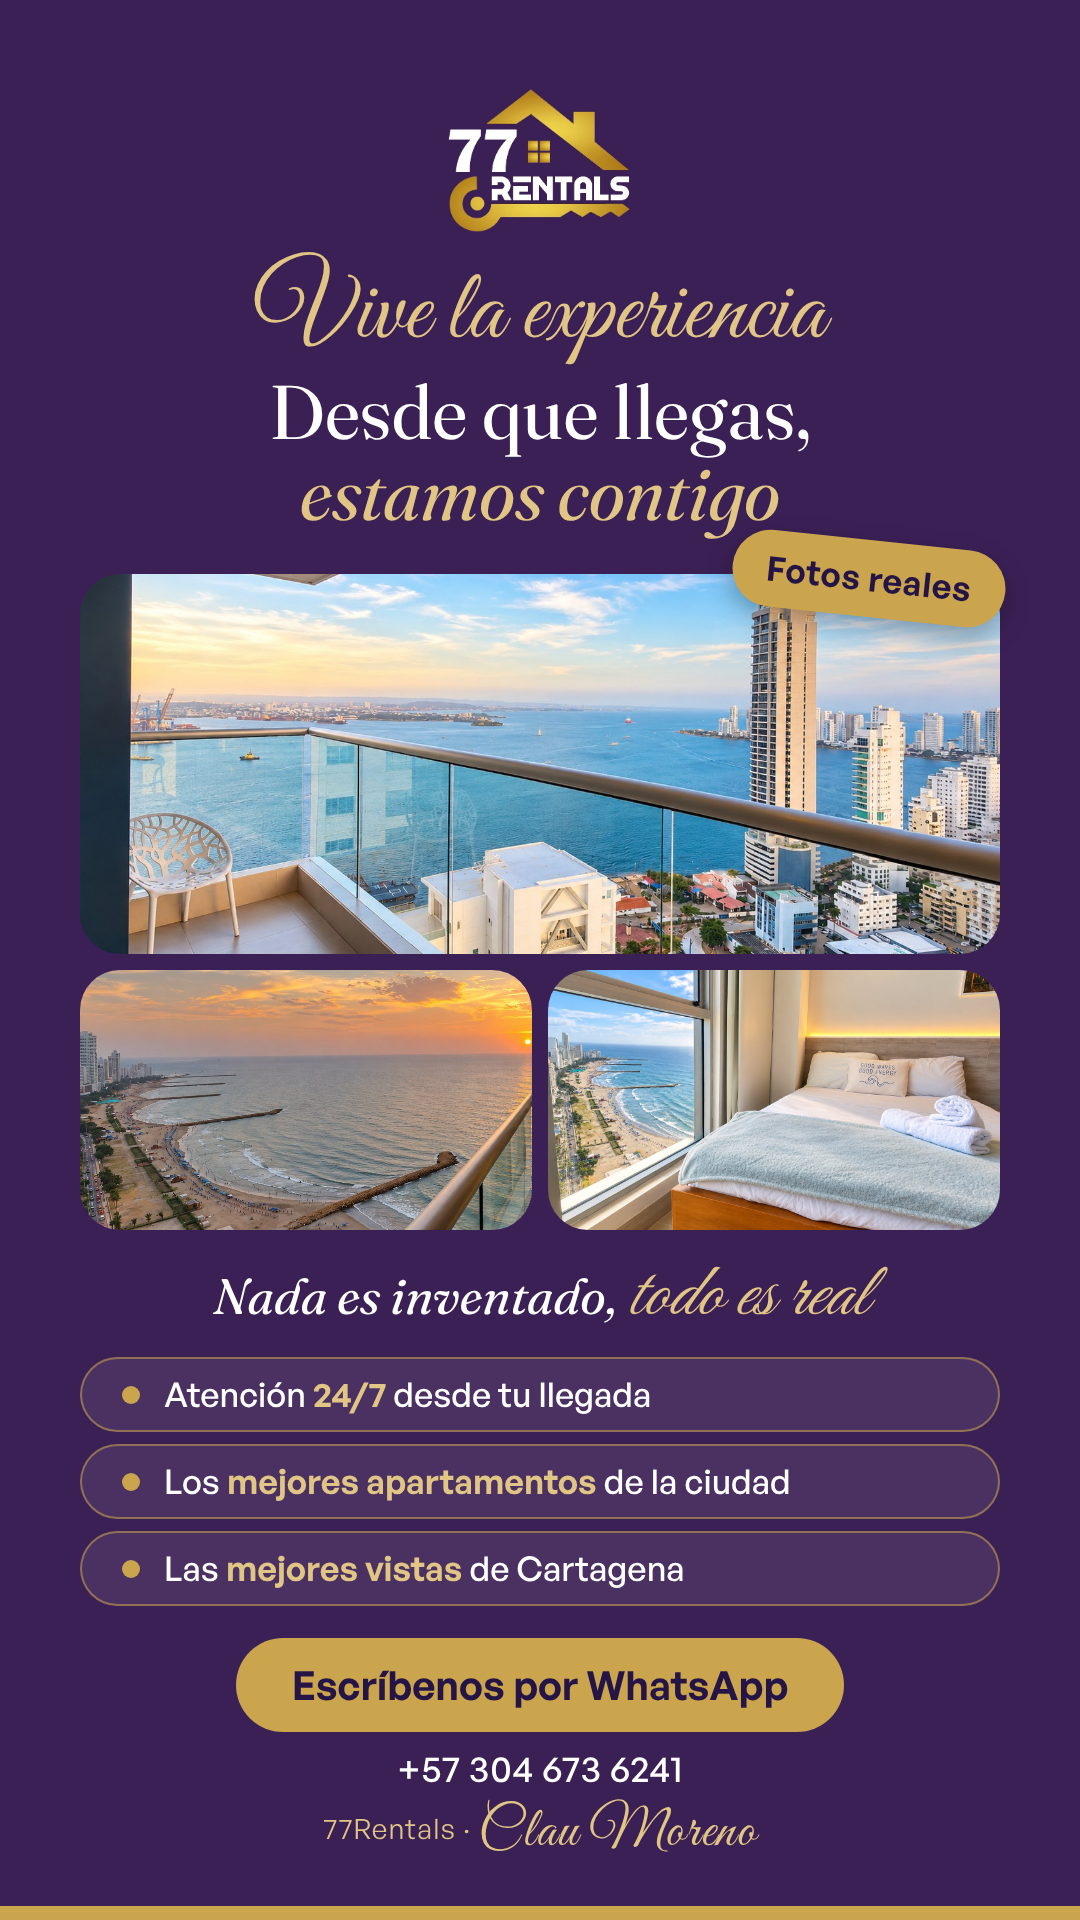
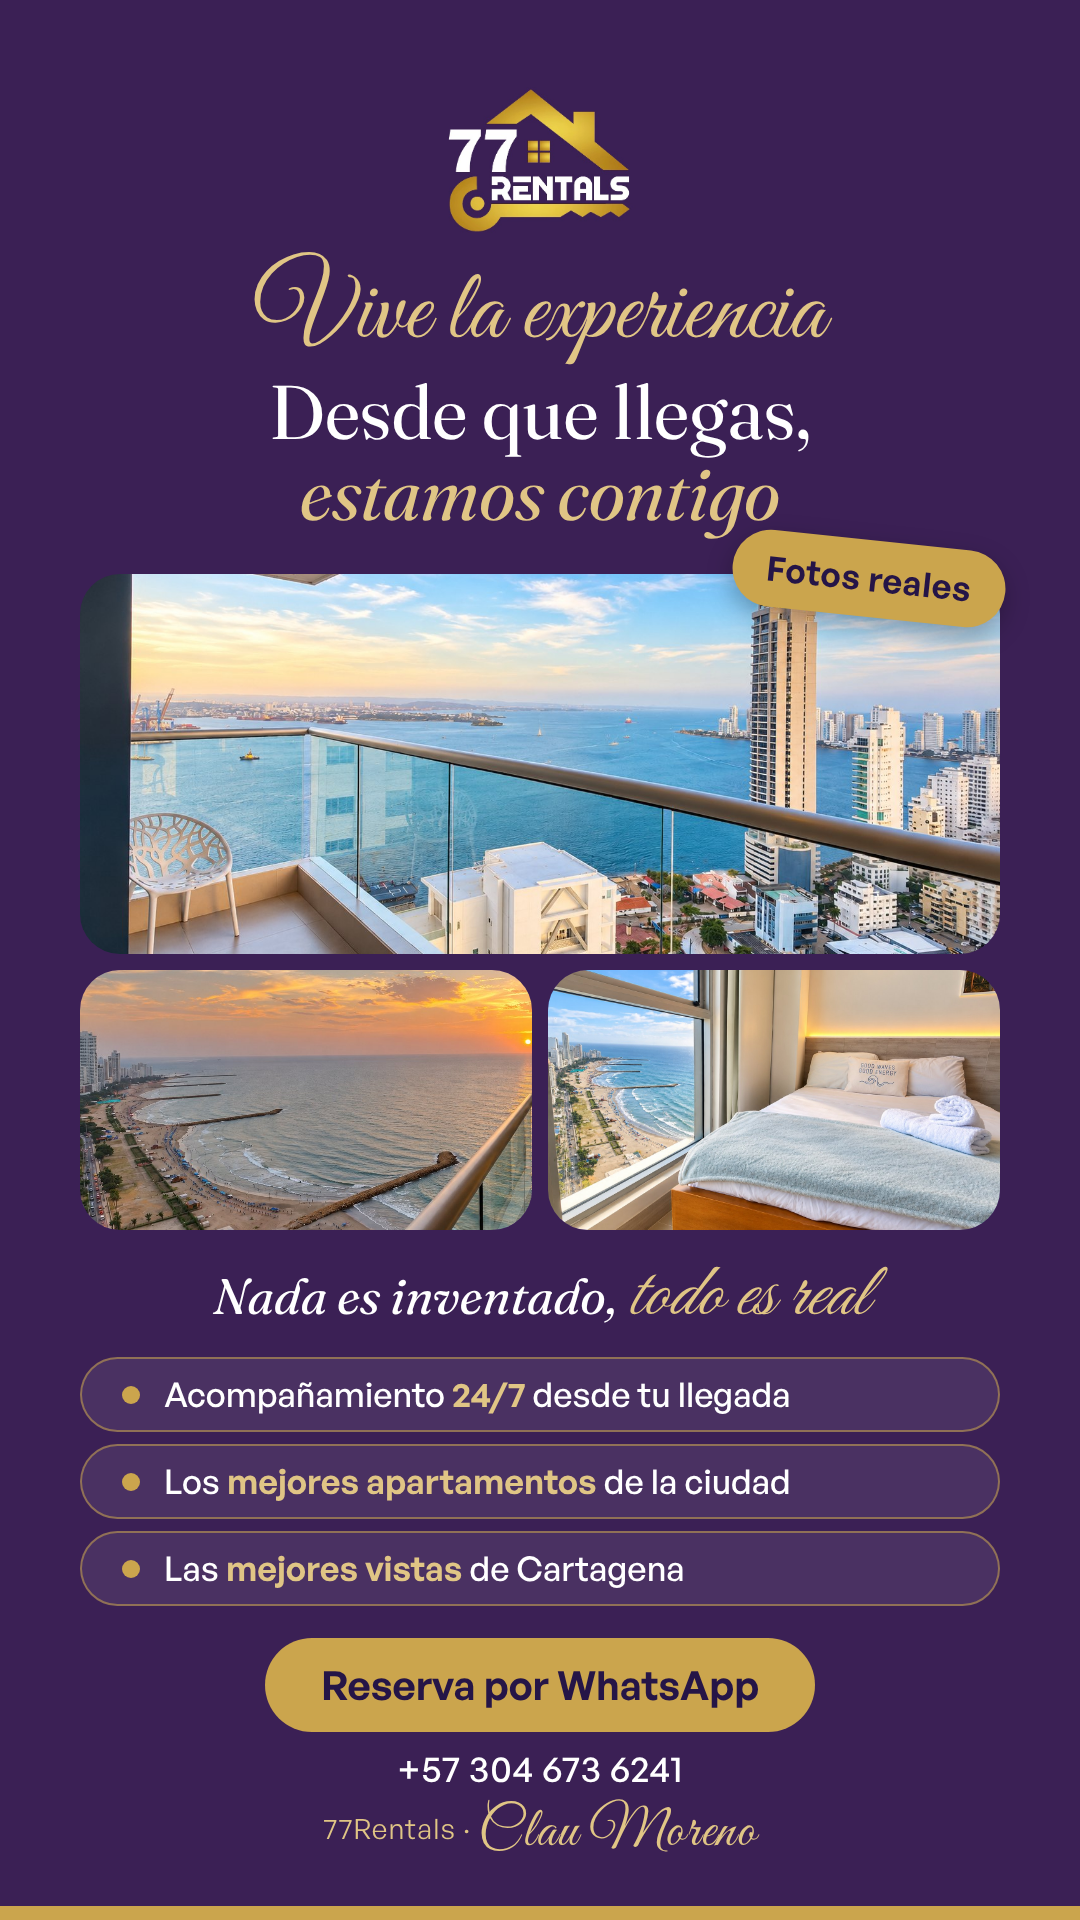
Polish WhatsApp post wording
Claude-Session: https://claude.ai/code/session_01TDPBANSJ6BXkJxXTdaDKF1

Changed region(s): [[0.2139, 0.8438, 0.7944, 0.9062], [0.1833, 0.7188, 0.7333, 0.75]]

diff --git a/posters/whatsapp/experiencias.html b/posters/whatsapp/experiencias.html
@@ -61,12 +61,12 @@
   <p class="real">Nada es inventado, <span class="script">todo es real</span></p>
 
   <div class="pills">
-    <div class="pill"><i></i><span>Atención <b>24/7</b> desde tu llegada</span></div>
+    <div class="pill"><i></i><span>Acompañamiento <b>24/7</b> desde tu llegada</span></div>
     <div class="pill"><i></i><span>Los <b>mejores apartamentos</b> de la ciudad</span></div>
     <div class="pill"><i></i><span>Las <b>mejores vistas</b> de Cartagena</span></div>
   </div>
 
-  <div class="cta">Escríbenos por WhatsApp</div>
+  <div class="cta">Reserva por WhatsApp</div>
   <div class="num">+57 304 673 6241</div>
   <div class="sign">77Rentals · <span class="script">Clau Moreno</span></div>
 </div>
